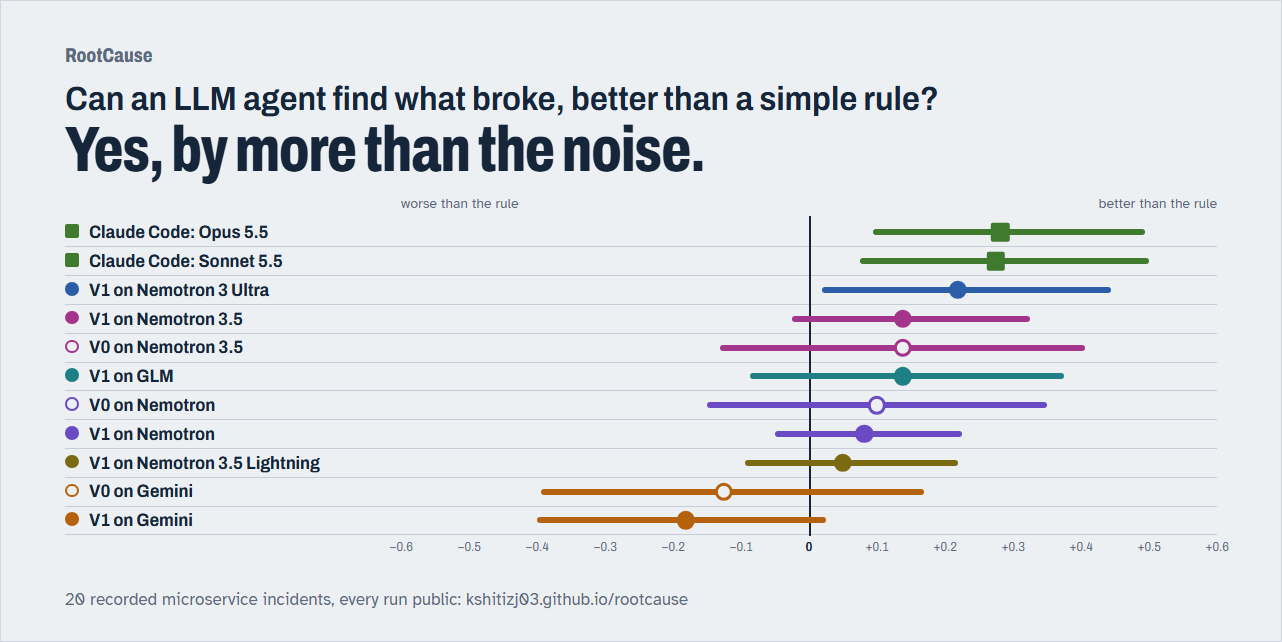
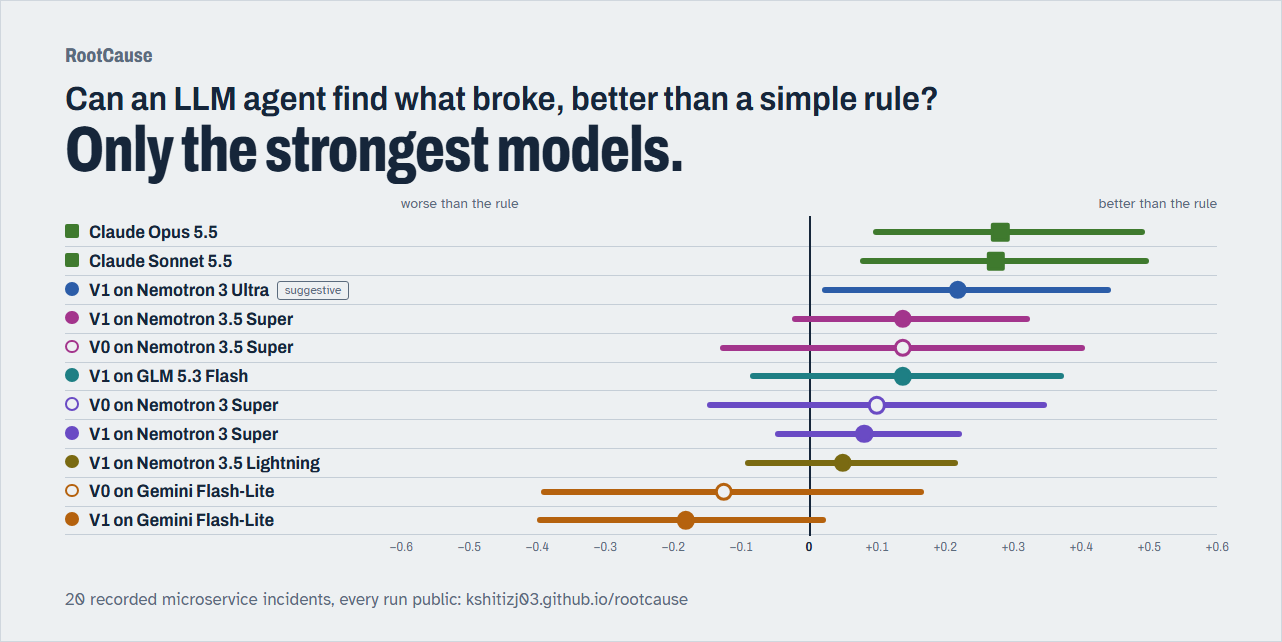
Headline and claims match the stats: only the strongest models clearly beat the rule
- An agent is clearly better than the rule only when its 95% interval is above 0 and the
  permutation test agrees (p <= 0.05); Nemotron 3 Ultra (p = 0.09) is marked suggestive.
- The hero answer names no vendor: "Only the strongest models." Hero rows show wins and losses.
- site.py exports p, wins and losses per paired comparison.
- Full model names on the site (Nemotron 3 Super, Gemini Flash-Lite, GLM 5.3 Flash, Claude Opus 5.5),
  and the scoreboard lists the rule first, then the most accurate agents.
- README: short summary up front, benchmark-and-toolset framing, Claude described as underconfident
  (GLM and Ultra are the best calibrated), Gemini ablation status fixed, a limit on how few
  incidents decide each comparison.
- Share card and README result images regenerated; stale "Not clearly" alt text and fallback removed.

diff --git a/site/assets/lib.js b/site/assets/lib.js
@@ -12,25 +12,26 @@ export const CATEGORIES = {
 
 export const SOLVERS = {
   heuristic: ["Heuristic", "the simple rule"],
-  "agent-v0": ["V0 on Gemini", "naive tools, Gemini 3.5 Flash-Lite"],
-  "agent-v1": ["V1 on Gemini", "change-aware tools, Gemini 3.5 Flash-Lite"],
-  "agent-v1-nopriors": ["V1 on Gemini (no priors)", "ablation: two prompt sentences removed"],
-  "agent-v1-vague": ["V1 on Gemini (vague alerts)", "ablation: one generic alert"],
-  "agent-v0-nemotron": ["V0 on Nemotron", "naive tools, Nemotron 3 Super"],
-  "agent-v1-nemotron": ["V1 on Nemotron", "change-aware tools, Nemotron 3 Super"],
-  "agent-v1-nemotron-nopriors": ["V1 on Nemotron (no priors)", "ablation: two prompt sentences removed"],
-  "agent-v1-nemotron-vague": ["V1 on Nemotron (vague alerts)", "ablation: one generic alert"],
-  "agent-v1-nemotron-steps30": ["V1 on Nemotron (30 steps)", "ablation: twice the step limit"],
-  "agent-v1@z-ai-glm-5.3-flash": ["V1 on GLM", "change-aware tools, GLM 5.3 Flash"],
-  "agent-v0@nvidia-nemotron-3.5-super-vl-120b-a12b": ["V0 on Nemotron 3.5", "naive tools, Nemotron 3.5 Super"],
-  "agent-v1@nvidia-nemotron-3.5-super-vl-120b-a12b": ["V1 on Nemotron 3.5", "change-aware tools, Nemotron 3.5 Super"],
+  "agent-v0": ["V0 on Gemini Flash-Lite", "naive tools, Gemini 3.5 Flash-Lite"],
+  "agent-v1": ["V1 on Gemini Flash-Lite", "change-aware tools, Gemini 3.5 Flash-Lite"],
+  "agent-v1-nopriors": ["V1 on Gemini Flash-Lite (no priors)", "ablation: two prompt sentences removed"],
+  "agent-v1-vague": ["V1 on Gemini Flash-Lite (vague alerts)", "ablation: one generic alert"],
+  "agent-v0-nemotron": ["V0 on Nemotron 3 Super", "naive tools, Nemotron 3 Super"],
+  "agent-v1-nemotron": ["V1 on Nemotron 3 Super", "change-aware tools, Nemotron 3 Super"],
+  "agent-v1-nemotron-nopriors": ["V1 on Nemotron 3 Super (no priors)", "ablation: two prompt sentences removed"],
+  "agent-v1-nemotron-vague": ["V1 on Nemotron 3 Super (vague alerts)", "ablation: one generic alert"],
+  "agent-v1-nemotron-steps30": ["V1 on Nemotron 3 Super (30 steps)", "ablation: twice the step limit"],
+  "agent-v1@z-ai-glm-5.3-flash": ["V1 on GLM 5.3 Flash", "change-aware tools, GLM 5.3 Flash"],
+  "agent-v0@nvidia-nemotron-3.5-super-vl-120b-a12b": ["V0 on Nemotron 3.5 Super", "naive tools, Nemotron 3.5 Super"],
+  "agent-v1@nvidia-nemotron-3.5-super-vl-120b-a12b": ["V1 on Nemotron 3.5 Super", "change-aware tools, Nemotron 3.5 Super"],
   "agent-v1@nvidia-nemotron-3-ultra-550b-a55b": ["V1 on Nemotron 3 Ultra", "change-aware tools, Nemotron 3 Ultra"],
   "agent-v1@nvidia-nemotron-3.5-lightning-30b-a3b": ["V1 on Nemotron 3.5 Lightning", "change-aware tools, Nemotron 3.5 Lightning"],
-  "claude-code-sonnet-5.5": ["Claude Code: Sonnet 5.5", "v1 prompt and tools in Claude Code's loop"],
-  "claude-code-opus-5.5": ["Claude Code: Opus 5.5", "v1 prompt and tools in Claude Code's loop"],
+  "claude-code-sonnet-5.5": ["Claude Sonnet 5.5", "v1 prompt and tools, in Claude Code's loop"],
+  "claude-code-opus-5.5": ["Claude Opus 5.5", "v1 prompt and tools, in Claude Code's loop"],
 };
 
 const GEMINI = "Gemini 3.5 Flash-Lite";
+const GEMINI_NAME = " on Gemini Flash-Lite";   // in the names; a base@model record swaps the model in
 
 /** [name, subtitle]: a built-in solver's label; a built-in one run on another model (eval --model, records named
  * base@model, where the base is always a Gemini solver) with that model in place of Gemini; anything else (your own
@@ -40,7 +41,7 @@ function label(s) {
   const [base, model] = s.split("@");
   if (model && SOLVERS[base]) {
     const [name, sub] = SOLVERS[base];
-    return [name.includes(" on Gemini") ? name.replace(" on Gemini", ` on ${model}`) : `${name} on ${model}`,
+    return [name.includes(GEMINI_NAME) ? name.replace(GEMINI_NAME, ` on ${model}`) : `${name} on ${model}`,
       sub.replace(GEMINI, "another model")];
   }
   return [s, "custom"];
@@ -98,7 +99,7 @@ export function answerText(data, overall) {
   if (!shown.length) return null;
   const n = overall[shown[0]].expected ?? overall[shown[0]].scenarios;
   const planned = data.planned_runs || {};   // absent in an older index.json: then only missing incidents count as partial
-  const lowerFirst = (s) => s[0].toLowerCase() + s.slice(1);   // "V1 on Nemotron" -> "v1 on Nemotron"
+  const lowerFirst = (s) => s.replace(/^(V\d|Heuristic)/, (m) => m.toLowerCase());   // "V1 on …" -> "v1 on …"; Claude keeps its capital
   const counts = (s) => data.incidents.map((i) => (i.results[s] || []).length);   // controls included
   const short = (s) => planned[s] && Math.min(...counts(s)) < planned[s];
   const isPartial = (s) => short(s) || overall[s].scenarios < n;
@@ -149,23 +150,36 @@ export function isPartial(data, s, overall) {
   return Boolean((planned && Math.min(...counts) < planned) || !overall[s] || overall[s].scenarios < n);
 }
 
-/** The complete, non-ablation batches: the heuristic and each agent on each model. */
+/** The complete, non-ablation batches: the heuristic first, then each agent on each model, most accurate first, so the
+ * scoreboard's first columns are the ones the headline is about. */
 export const mainSolvers = (data, overall) =>
-  data.solvers.filter((s) => overall[s] && !isAblation(s) && !isPartial(data, s, overall));
+  data.solvers.filter((s) => overall[s] && !isAblation(s) && !isPartial(data, s, overall))
+    .sort((x, y) => (y === "heuristic") - (x === "heuristic") || overall[y].accuracy_mean - overall[x].accuracy_mean);
 
 /** Each complete agent against the heuristic on the fault incidents, best first: {s, mean, ci, n}. Pairs without an
  * interval are left out. */
 export function vsRuleRows(data, complete) {
   return (data.paired || [])
     .filter((p) => p.b === "heuristic" && p.ci && complete.includes(p.a))
-    .map((p) => ({ s: p.a, mean: p.mean_diff, ci: p.ci, n: p.n }))
+    .map((p) => ({ s: p.a, mean: p.mean_diff, ci: p.ci, n: p.n, p: p.p, wins: p.wins, losses: p.losses }))
     .sort((x, y) => y.mean - x.mean);
+}
+
+/** A comparison is clearly better only when its 95% interval lies above 0 and the permutation test agrees (p <= 0.05);
+ * an interval above 0 with a larger p is suggestive. The bootstrap is somewhat too narrow at 16 incidents, so the
+ * interval alone overstates. A row without p (an older index.json) goes by the interval. */
+export const strength = (r) => (r.ci[0] <= 0 ? "none" : r.p == null || r.p <= 0.05 ? "clear" : "suggestive");
+
+/** The hero's one-line answer from the vs-rule rows, naming no vendor: none, some or all of the agents clearly better. */
+export function heroAnswer(rows) {
+  const clear = rows.filter((r) => strength(r) === "clear").length;
+  return !clear ? "Not clearly." : clear < rows.length ? "Only the strongest models." : "Yes, by more than the noise.";
 }
 
 /** What one paired comparison changes, in plain words: [group, change, held fixed]. */
 export function changeOf(a, b) {
   const model = (s) => ({ nemotron: "Nemotron 3 Super", nemotron35: "Nemotron 3.5 Super", ultra: "Nemotron 3 Ultra", lightning: "Nemotron 3.5 Lightning",
-    glm: "GLM" }[modelOf(s)] ?? "Gemini");
+    glm: "GLM 5.3 Flash" }[modelOf(s)] ?? "Gemini Flash-Lite");
   const tools = (s) => (toolsOf(s) === "v0" ? "naive tools" : "change-aware tools");
   if (toolsOf(a) === toolsOf(b) && modelOf(a) !== modelOf(b) && !isAblation(a) && !isAblation(b)) {
     return ["Model", `${model(a)} instead of ${model(b)}`, `same agent: v${toolsOf(a).slice(1)}, ${tools(a)}`];

diff --git a/site/index.html b/site/index.html
@@ -13,7 +13,7 @@
 <meta property="og:image" content="https://kshitizj03.github.io/rootcause/assets/card.png">
 <meta property="og:image:width" content="1280">
 <meta property="og:image:height" content="640">
-<meta property="og:image:alt" content="Can an LLM agent find what broke, better than a simple rule? Yes: Claude Opus 5.5, Claude Sonnet 5.5 and the free Nemotron 3 Ultra beat it on 16 fault incidents (95% intervals right of zero); the other free models' intervals all cross zero.">
+<meta property="og:image:alt" content="Can an LLM agent find what broke, better than a simple rule? Only the strongest models: Claude Opus 5.5 and Sonnet 5.5 beat it on 16 fault incidents (95% intervals right of zero, permutation p of 0.05 or less), the largest free model, Nemotron 3 Ultra, is suggestive (p = 0.09), and the smaller models' intervals cross zero.">
 <meta name="twitter:card" content="summary_large_image">
 <link rel="preconnect" href="https://fonts.googleapis.com">
 <link rel="preconnect" href="https://fonts.gstatic.com" crossorigin>
@@ -39,7 +39,7 @@
   <section class="hero" id="results" aria-labelledby="headline">
     <h1 id="headline">Can an LLM agent find what broke, better than a simple rule?</h1>
     <p class="answer-line" id="answer" aria-live="polite">Loading the result.</p>
-    <p class="lede">RootCause is an LLM agent that reads an incident’s metrics, traces and logs and names the service that broke. It is scored against a 28-line rule that names the service whose fault signal rose most, on incidents recorded from a 28-service demo shop, with every run shown, failures included.</p>
+    <p class="lede">RootCause is a benchmark and a toolset: an LLM agent reads an incident’s metrics, traces and logs through its tools and names the service that broke, and is scored against a 28-line rule that names the service whose fault signal rose most, on incidents recorded from a 28-service demo shop. The same tools are served over MCP, so any agent harness can run them. Every run is shown, failures included.</p>
     <div id="hero-plot"><noscript><p class="status">This page needs JavaScript to draw the results.</p></noscript></div>
   </section>
 
@@ -51,7 +51,7 @@
 
   <section class="board" id="every-run" aria-labelledby="board-title">
     <h2 id="board-title">Every run</h2>
-    <p class="section-lede">One mark per run, for every incident. Open an incident to replay what the agent looked at and why it answered as it did.</p>
+    <p class="section-lede">One mark per run, for every incident. Open a run to replay every tool call the agent made, what each returned, and what it answered.</p>
     <div id="scoreboard" data-root>
       <p class="status">Loading results.</p>
     </div>
@@ -87,6 +87,7 @@
           <li><strong>Small.</strong> Twenty incidents from one demo app, recorded on one laptop. Category results rest on two to six incidents each.</li>
           <li><strong>Generous inputs.</strong> Every solver is told when the fault began, and several alerts hint at the area of the cause. With one generic alert instead, false alarms double.</li>
           <li><strong>Two harnesses.</strong> Gemini 3.5 Flash-Lite, GLM 5.3 Flash and four Nemotron models run on free tiers in this repo&rsquo;s loop at temperature 0, so their spread across runs is API nondeterminism, not sampling. Claude Sonnet 5.5 and Opus 5.5 run in Claude Code&rsquo;s own loop at default sampling, so Claude against the free models mixes model and loop; Claude against the rule does not.</li>
+          <li><strong>Few incidents decide it.</strong> The leading agents (Claude, Nemotron 3 Ultra, GLM) score the same as the rule on 8 to 10 of the 16 fault incidents, so each of those comparisons rests on the other 6 to 8. A right answer can also cite the symptom’s evidence rather than the cause’s.</li>
           <li><strong>One author.</strong> The same person built the incidents, the rule, the agent and the scoring. The <a href="https://github.com/kshitizj03/rootcause/blob/main/docs/faq.md">methodology FAQ</a> lists every known threat to validity.</li>
         </ul>
       </div>

diff --git a/site/assets/app.js b/site/assets/app.js
@@ -4,7 +4,7 @@
 import {
   CATEGORIES, SOLVERS, solverName, solverSub, categoryName, pct, signed, plural, isObj, num, minutes, counted, isTrueCause,
   mark, stripSlots, strip, answerText, alertFor, sparkGeometry, logsLine, trimNotes, argText, evidenceText,
-  modelOf, toolsOf, isPartial, mainSolvers, vsRuleRows, findingRows, forestDomain, at,
+  modelOf, toolsOf, isPartial, mainSolvers, vsRuleRows, findingRows, forestDomain, at, strength, heroAnswer,
 } from "./lib.js";
 
 const REPO = "https://github.com/kshitizj03/rootcause";
@@ -103,14 +103,20 @@ function vsRulePlot(data, rows, overall) {
       h("div", { class: "f-ends" }, h("span", {}, "worse than the rule"), h("span", {}, "better than the rule"))),
     h("ul", { class: "f-rows", role: "list" }, rows.map((r) =>
       h("li", { class: "f-row" },
-        h("span", { class: "f-label" }, swatch(r.s), h("span", { class: "f-name" }, solverName(r.s)),
-          h("span", { class: "f-sub" }, `${pct(overall[r.s].accuracy_mean)} of ${r.n} fault incidents`)),
-        h("div", { class: "f-track", role: "img", "aria-label": `${solverName(r.s)} minus the rule: ${diffText(r.mean, r.ci)}` },
+        h("span", { class: "f-label" }, swatch(r.s), h("span", { class: "f-name" }, solverName(r.s),
+            strength(r) === "suggestive" ? h("span", { class: "tag", title: `permutation p = ${r.p.toFixed(2)}` }, "suggestive") : null),
+          h("span", { class: "f-sub" }, `${pct(overall[r.s].accuracy_mean)} of ${r.n} fault incidents`,
+            r.wins != null ? `; beat the rule on ${r.wins}, lost on ${r.losses}` : "")),
+        h("div", { class: "f-track", role: "img", "aria-label": `${solverName(r.s)} minus the rule: ${diffText(r.mean, r.ci)}` +
+          (r.p != null ? `, permutation p = ${r.p.toFixed(2)}${strength(r) === "suggestive" ? ", so only suggestive" : ""}` : "") },
           h("span", { class: "f-zero" }), interval(r.s, r.mean, r.ci, domain))))),
     forestAxis(domain),
     h("figcaption", {}, `Each agent’s accuracy minus the simple rule’s (${rule ? pct(rule.accuracy_mean) : "n/a"}) on the same `,
       `${rows[0]?.n ?? 16} fault incidents, with a 95% bootstrap interval over incidents. `,
-      rows.every((r) => r.ci[0] <= 0) ? "Every interval crosses zero: none is clearly better." : "An interval wholly right of zero is clearly better."));
+      rows.every((r) => r.ci[0] <= 0) ? "Every interval crosses zero: none is clearly better."
+        : "An agent is clearly better when its interval lies wholly right of zero and an exact permutation test agrees (p ≤ 0.05); " +
+          "an interval right of zero with a larger p is only suggestive, since the bootstrap runs narrow at 16 incidents. " +
+          "On the other incidents the agent and the rule score the same."));
 }
 
 /** What moved accuracy: the paired comparisons that change one thing, fault-only and with the controls counted. */
@@ -210,8 +216,7 @@ async function renderIndex() {
 
   const rows = vsRuleRows(data, main);
   if (rows.length) {
-    const yes = rows.some((r) => r.ci[0] > 0);
-    document.getElementById("answer").textContent = yes ? "Yes, by more than the noise." : "Not clearly.";
+    document.getElementById("answer").textContent = heroAnswer(rows);
     document.getElementById("hero-plot").replaceChildren(vsRulePlot(data, rows, overall));
   }
   const findings = findingRows(data, complete);
@@ -615,7 +620,7 @@ async function renderCard() {
   const overall = Object.fromEntries(data.solvers.map((s) => [s, summary[s]["all incidents"]]));
   const rows = vsRuleRows(data, mainSolvers(data, overall));
   if (!rows.length) return;
-  document.getElementById("answer").textContent = rows.some((r) => r.ci[0] > 0) ? "Yes, by more than the noise." : "Not clearly.";
+  document.getElementById("answer").textContent = heroAnswer(rows);
   document.getElementById("hero-plot").replaceChildren(vsRulePlot(data, rows, overall));
 }
 

diff --git a/site/incident.html b/site/incident.html
@@ -13,7 +13,7 @@
 <meta property="og:image" content="https://kshitizj03.github.io/rootcause/assets/card.png">
 <meta property="og:image:width" content="1280">
 <meta property="og:image:height" content="640">
-<meta property="og:image:alt" content="Can an LLM agent find what broke, better than a simple rule? Not clearly: every agent's 95% interval against the rule crosses zero.">
+<meta property="og:image:alt" content="Can an LLM agent find what broke, better than a simple rule? Only the strongest models: Claude Opus 5.5 and Sonnet 5.5 beat it on 16 fault incidents (95% intervals right of zero, permutation p of 0.05 or less), the largest free model, Nemotron 3 Ultra, is suggestive (p = 0.09), and the smaller models' intervals cross zero.">
 <meta name="twitter:card" content="summary_large_image">
 <link rel="preconnect" href="https://fonts.googleapis.com">
 <link rel="preconnect" href="https://fonts.gstatic.com" crossorigin>

diff --git a/site/assets/style.css b/site/assets/style.css
@@ -585,3 +585,9 @@ body.card .hero-plot .f-label > .dot { top: 0.2rem; }
 body.card .hero-plot .f-zero { top: -0.25rem; bottom: -0.25rem; }
 body.card .hero-plot figcaption { display: none; }
 .card-foot { position: absolute; left: 64px; bottom: 28px; margin: 0; color: var(--muted); font-size: 1.0625rem; }
+
+/* a hero row whose interval clears zero but whose permutation p does not: said in words, not left to the bar */
+.tag {
+  display: inline-block; margin-left: 0.5rem; padding: 0 0.4rem; border: 1px solid var(--muted); border-radius: 3px;
+  font: 400 0.75rem/1.4 var(--body); color: var(--muted); white-space: nowrap; vertical-align: 0.15em;
+}

diff --git a/site/card.html b/site/card.html
@@ -16,7 +16,7 @@
 <main>
   <p class="card-mark">RootCause</p>
   <h1>Can an LLM agent find what broke, better than a simple rule?</h1>
-  <p class="answer-line" id="answer">Not clearly.</p>
+  <p class="answer-line" id="answer"></p>
   <div id="hero-plot"></div>
   <p class="card-foot">20 recorded microservice incidents, every run public: kshitizj03.github.io/rootcause</p>
 </main>

diff --git a/rootcause/site.py b/rootcause/site.py
@@ -90,7 +90,8 @@ def _alert_shown(rs):
 
 def _pair(a, b, p, every):
     keep = lambda q: {"n": q["n"], "mean_diff": q["mean_diff"], "ci": q["ci"]}
-    return {"a": a, "b": b, **keep(p), "with_controls": keep(every)}
+    # p, wins and losses on the fault incidents: the site calls an agent clearly better only when p agrees with the CI
+    return {"a": a, "b": b, **keep(p), "p": p["p"], "wins": p["wins"], "losses": p["losses"], "with_controls": keep(every)}
 
 
 def _truth(s, rows):

diff --git a/README.md b/README.md
@@ -1,19 +1,21 @@
 # RootCause
 
-RootCause is an LLM agent that investigates microservice incidents over OpenTelemetry metrics, traces and logs, and a benchmark that asks whether it beats a simple rule. Every answer is scored against ground truth on 20 recorded [OpenTelemetry Demo](https://github.com/open-telemetry/opentelemetry-demo) incidents (16 faults, 4 no-fault controls), against a 28-line heuristic that names the service whose fault signal rose most.
+RootCause is a benchmark and a toolset for LLM agents that investigate microservice incidents over OpenTelemetry metrics, traces and logs: does an agent with the right tools beat a simple rule? The tools run in this repo's own agent loop and over MCP, so any agent harness can be scored. Every answer is scored against ground truth on 20 recorded [OpenTelemetry Demo](https://github.com/open-telemetry/opentelemetry-demo) incidents (16 faults, 4 no-fault controls), against a 28-line heuristic that names the service whose fault signal rose most.
 
 <a href="https://kshitizj03.github.io/rootcause/"><picture>
   <source media="(prefers-color-scheme: dark)" srcset="docs/images/result-dark.png">
-  <img alt="Can an LLM agent find what broke, better than a simple rule? Yes, by more than the noise: each agent's accuracy minus the rule's on 16 fault incidents, with a 95% interval; Claude Opus 5.5, Claude Sonnet 5.5 and the free Nemotron 3 Ultra are clear of zero, every other free model's interval crosses it." src="docs/images/result-light.png">
+  <img alt="Can an LLM agent find what broke, better than a simple rule? Only the strongest models: each agent's accuracy minus the rule's on 16 fault incidents, with a 95% interval; Claude Opus 5.5 and Sonnet 5.5 are clear of zero, the largest free model, Nemotron 3 Ultra, only suggestively (p = 0.09), and every smaller model's interval crosses it." src="docs/images/result-light.png">
 </picture></a>
 
-**The result, honestly:**
-- **Claude beats the rule.** Claude Opus 5.5 and Sonnet 5.5, run in Claude Code with agent v1's prompt and tools, score 0.88 and 0.87 on the fault incidents against the rule's 0.59: +0.28 (95% interval +0.09 to +0.49) and +0.27 (+0.08 to +0.50). With the 4 no-fault controls counted, Opus still clears zero (+0.25, +0.06 to +0.45) and Sonnet does not (+0.18, -0.03 to +0.39), because it raises more false alarms. Opus and Sonnet are indistinguishable on the fault incidents (+0.01).
-- **So does the largest free model, on the fault incidents.** Agent v1 on Nemotron 3 Ultra (550B, NVIDIA's free endpoint, this repo's loop) scores 0.81: +0.22 over the rule (+0.02 to +0.44, permutation p = 0.09, so suggestive). With the controls counted its interval includes 0 (+0.15, -0.02 to +0.35). It is not measurably below Opus (+0.06, -0.09 to +0.21).
+**In short:** only the strongest models clearly beat the rule. With this repo's tools, the best (Claude Opus 5.5) beat it on 6 of 16 fault incidents and lost on none (0.88 vs 0.59); the largest free model (Nemotron 3 Ultra, 0.81) is suggestive but not clear; the smaller models are not clearly better. Within one model family, accuracy rose with size (Nemotron 30B 0.64, 120B 0.73, 550B 0.81), so the result is about model strength, not a vendor. Every run can be [replayed](https://kshitizj03.github.io/rootcause/), failures included.
+
+**The result, in detail:**
+- **Claude beats the rule.** Claude Opus 5.5 and Sonnet 5.5, run in Claude Code with agent v1's prompt and tools, score 0.88 and 0.87 on the fault incidents against the rule's 0.59: +0.28 (95% interval +0.09 to +0.49, permutation p = 0.03; 6 wins, 10 ties, 0 losses) and +0.27 (+0.08 to +0.50, p = 0.05; 6 wins, 1 loss). With about thirty comparisons and no correction, these are the strongest results here, not proof. With the 4 no-fault controls counted, Opus still clears zero (+0.25, +0.06 to +0.45) and Sonnet does not (+0.18, -0.03 to +0.39), because it raises more false alarms. Opus and Sonnet are indistinguishable on the fault incidents (+0.01).
+- **The largest free model is suggestive, not clear.** Agent v1 on Nemotron 3 Ultra (550B, NVIDIA's free endpoint, this repo's loop) scores 0.81: +0.22 over the rule. Its bootstrap interval only just clears zero (+0.02 to +0.44) and the permutation test does not agree (p = 0.09). With the controls counted its interval includes 0 (+0.15, -0.02 to +0.35). It is not measurably below Opus (+0.06, -0.09 to +0.21).
 - **The other free models are not clearly better than the heuristic.** Every paired 95% interval for agents v0 and v1 on Gemini 3.5 Flash-Lite, Nemotron 3 Super, Nemotron 3.5 Super, Nemotron 3.5 Lightning and GLM 5.3 Flash includes 0; the best are +0.14 (Nemotron 3.5 Super's interval only just includes 0: -0.02 to +0.33).
 - **The Claude runs are a different harness.** Claude Code's own tool loop at the model's default sampling, not this repo's loop at temperature 0, so "Claude vs the free models" mixes the model with the loop. Against the rule, which uses neither, the comparison is clean.
-- **Claude is the first agent that is not overconfident.** Opus states 0.73 confidence and is right 0.87 of the time; Sonnet 0.60 and 0.81. Every other agent states more confidence than it earns.
-- **The model matters more than the tools on fault incidents.** With the same prompt and tools, agent v1 on GLM 5.3 Flash scores +0.32 higher than on Gemini 3.5 Flash-Lite (95% interval +0.09 to +0.56), and on Nemotron 3 Super +0.26 (+0.10 to +0.44). A newer Nemotron (3.5 Super) is not measurably better than the old one (+0.06, interval -0.01 to +0.12); a larger one (3 Ultra) is (+0.14, +0.03 to +0.27), and keeps that gap with the controls counted.
+- **Claude is underconfident; every other agent is overconfident.** Opus states 0.73 confidence and is right 0.87 of the time; Sonnet 0.60 and 0.81. Opus has the best Brier score (0.11), but GLM 5.3 Flash and Nemotron 3 Ultra are the best calibrated (ECE 0.08 and 0.11, against Claude's 0.20 and 0.22).
+- **The model matters more than the tools on fault incidents.** With the same prompt and tools, agent v1 on GLM 5.3 Flash scores +0.32 higher than on Gemini 3.5 Flash-Lite (95% interval +0.09 to +0.56), and on Nemotron 3 Super +0.26 (+0.10 to +0.44). A newer Nemotron (3.5 Super) is not measurably better than the old one (+0.06, interval -0.01 to +0.12); a larger one (3 Ultra) suggestively is (+0.14, +0.03 to +0.27, p = 0.08), and keeps that gap with the controls counted.
 - **Counting the 4 no-fault controls shrinks the model gaps:** Nemotron vs Gemini falls to +0.11 and its interval includes 0 (-0.09 to +0.31), because Nemotron raises far more false alarms.
 - **The change-aware tools change nothing measurable** on any of the three models that ran both toolsets.
 
@@ -53,7 +55,7 @@ rootcause eval heuristic
 ## Status
 
 > - **Complete:** the heuristic; agents v0 and v1 on Gemini 3.5 Flash-Lite, Nemotron 3 Super and Nemotron 3.5 Super, and agent v1 on GLM 5.3 Flash, Nemotron 3 Ultra and Nemotron 3.5 Lightning (5 runs on each of the 20 incidents); on Nemotron 3 Super, the no-priors, vague-alert and 30-step ablations; on Gemini, the vague-alert and no-priors ablations; Claude Sonnet 5.5 and Opus 5.5 in Claude Code (5 runs on each incident).
-> - **Running:** agent v1 on Gemini 3.1 Flash-Lite (quota-bound on the free tier), not in the data release yet. Other models that were tried and not run (timeouts) are listed under [Models tried](docs/results/agents.md#models-tried).
+> - **Partial, not in the data release:** agent v1 on Gemini 3.1 Flash-Lite (quota-bound on the free tier). Other models that were tried and not run (timeouts) are listed under [Models tried](docs/results/agents.md#models-tried).
 > - Two small decision models, Laya and Hunch, both scored below the heuristic zero-shot, so no small-model-then-agent cascade was built ([`laya.md`](docs/results/laya.md), [`hunch.md`](docs/results/hunch.md)).
 
 ## How it works
@@ -93,7 +95,7 @@ The automated leak scan checks every snapshot's metrics, spans and logs, which c
 - **Agent v0:** a model tool loop with naive tools (raw metric series, trace and log search).
 - **Agent v1:** the same loop with change-aware tools (`top_changes`, `service_health`, `service_map`) and structured, checkable evidence.
 - **Claude Code** (`rootcause/claude_code.py`): Claude Sonnet 5.5 or Opus 5.5 in headless Claude Code (`claude -p`), with agent v1's prompt, only the v1 tools (over MCP), the same 15-turn limit, step-limit message and repair turn. It has no built-in tools (no file reads, shell or web), no settings or CLAUDE.md, and its MCP server reads a copy of the snapshot without the ground truth; every run checks its tool list.
-- **Ablations of agent v1,** each changing one thing: *no priors* drops the two generic sentences from the prompt ("the service the alert mentions is often NOT the cause", "it is possible that nothing is actually wrong"), and *vague alert* gives every incident the same alert, "Users report that something is wrong with the shop." On Nemotron both are complete, plus a third ablation with a 30-step limit instead of 15; on Gemini both are in progress.
+- **Ablations of agent v1,** each changing one thing: *no priors* drops the two generic sentences from the prompt ("the service the alert mentions is often NOT the cause", "it is possible that nothing is actually wrong"), and *vague alert* gives every incident the same alert, "Users report that something is wrong with the shop." Both ran on Nemotron (5 runs per incident) and on Gemini (3 runs per incident), plus, on Nemotron, a third ablation with a 30-step limit instead of 15.
 
 Agents v0 and v1 run at temperature 0 on six free-tier models: Gemini 3.5 Flash-Lite, and Nemotron 3 Super, Nemotron 3.5 Super, Nemotron 3 Ultra, Nemotron 3.5 Lightning and GLM 5.3 Flash on NVIDIA's free trial endpoint. The Claude Code solver runs Claude Sonnet 5.5 and Opus 5.5 on a Claude subscription, at the model's default sampling (Claude Code cannot set the temperature). One model is pinned per batch, so results never mix models.
 
@@ -219,6 +221,7 @@ Both are scored by the same rules as the built-in solvers, and `summary`, `repor
 ## Honest limits
 
 - **Twenty incidents from one demo app on one laptop.** This is a small benchmark, not a general claim.
+- **A few incidents decide each comparison.** The leading agents (Claude, Nemotron 3 Ultra, GLM 5.3 Flash) score the same as the rule on 8 to 10 of the 16 fault incidents, so each of those comparisons rests on the other 6 to 8. A run is scored on the service it names, so a right answer can still cite the symptom's evidence rather than the cause's (the replay below is one).
 - **Every solver gets the exact fault onset** (t=0 is the injection time), and several alerts hint at the culprit's functional area. One generic alert for every incident lowers fault accuracy by 0.12 on Nemotron and 0.13 on Gemini (each borderline on its own) and raises false alarms on both, so the alerts' hints help.
 - **Six free-tier models and two Claude models:** Gemini 3.5 Flash-Lite, Nemotron 3 Super, Nemotron 3.5 Super, Nemotron 3 Ultra, Nemotron 3.5 Lightning and GLM 5.3 Flash at temperature 0, in this repo's loop; Claude Sonnet 5.5 and Opus 5.5 at default sampling, in Claude Code's loop. For the free models the spread across runs measures API nondeterminism, not sampling. The Claude gap over the free models mixes model and harness; the Claude gap over the rule does not.
 

diff --git a/docs/results/agents.md b/docs/results/agents.md
@@ -5,7 +5,7 @@
 ## In short
 
 - **Claude beats the simple rule (added 2026-11-10).** Claude Opus 5.5 and Sonnet 5.5 in Claude Code, with agent v1's prompt and tools, score 0.88 and 0.87 on fault incidents against the rule's 0.59 (+0.28, interval +0.09 to +0.49; +0.27, +0.08 to +0.50). Counting the controls, only Opus clears zero (+0.25, +0.06 to +0.45). See [Claude in Claude Code](#claude-in-claude-code).
-- **The largest free model beats the rule on fault incidents, but not once false alarms count (added 2026-11-15).** Agent v1 on Nemotron 3 Ultra (550B, NVIDIA's free endpoint, this repo's loop at temperature 0) scores 0.81 on fault incidents: +0.22 over the heuristic (interval +0.02 to +0.44, permutation p = 0.09, so suggestive). With the controls counted, +0.15 (-0.02 to +0.35). It is not measurably below Opus (Opus +0.06, -0.09 to +0.21). See [Scale](#scale-a-larger-model-helps-where-a-newer-one-did-not).
+- **The largest free model is suggestively better than the rule on fault incidents, and not once false alarms count (added 2026-11-15).** Agent v1 on Nemotron 3 Ultra (550B, NVIDIA's free endpoint, this repo's loop at temperature 0) scores 0.81 on fault incidents: +0.22 over the heuristic (interval +0.02 to +0.44, permutation p = 0.09, so suggestive). With the controls counted, +0.15 (-0.02 to +0.35). It is not measurably below Opus (Opus +0.06, -0.09 to +0.21). See [Scale](#scale-a-larger-model-helps-where-a-newer-one-did-not).
 - **No other free-tier agent is clearly better than the simple rule, on five more models.** The best, v1 on Nemotron 3.5 Super and on GLM 5.3 Flash, score 0.14 above the heuristic on fault incidents, but every interval includes 0 (Nemotron 3.5's only just: -0.02 to +0.33), so this benchmark cannot tell them apart. Most of them also raise more false alarms on the no-fault controls.
 - **The model matters most on fault incidents.** With the same agent, tools and prompt, GLM 5.3 Flash scores 0.32 above Gemini 3.5 Flash-Lite (95% interval +0.09 to +0.56) and Nemotron 3 Super 0.26 above it (+0.10 to +0.44). Agent v0 shows the same Nemotron gap (+0.23, interval +0.04 to +0.41).
 - **A newer version of the same model does not measurably help; a larger one does.** Nemotron 3.5 Super against Nemotron 3 Super: +0.06 with agent v1 (interval -0.01 to +0.12) and +0.04 with v0 (-0.05 to +0.12). Nemotron 3 Ultra against Nemotron 3 Super, the version held: +0.14 (+0.03 to +0.27), and +0.14 (+0.04 to +0.25) with the controls counted. Going smaller costs false alarms: Nemotron 3.5 Super against 3.5 Lightning is +0.09 on fault incidents (-0.01 to +0.21) and +0.11 (+0.02 to +0.22) with the controls.
@@ -202,7 +202,7 @@ Added 2026-11-10. `rootcause/claude_code.py` runs headless Claude Code (`claude 
 
 - **Both beat the rule on fault incidents; with the controls counted, only Opus does.** Sonnet raised an incident on all five runs of control-3 (product-catalog latency) and on three of control-2; Opus answered control-2, the control with a real unprompted latency spike, "no incident" on all five runs.
 - **No run hit the step limit,** and no answer failed to parse.
-- **Neither is overconfident,** unlike every other agent: stated confidence is below accuracy, and a confidence threshold helps (Opus is right on every run answered at confidence 0.75 or more, 53% of runs).
+- **Neither is overconfident,** unlike every other agent, but both are underconfident (ECE 0.20 for Opus and 0.22 for Sonnet, against 0.08 for GLM 5.3 Flash and 0.11 for Nemotron 3 Ultra): stated confidence is below accuracy, and a confidence threshold helps (Opus is right on every run answered at confidence 0.75 or more, 53% of runs).
 - **Where they still fail:** kafka-queue-problems (0 of 5 for both: they name accounting, a Kafka consumer; the accepted answers are kafka, checkout and fraud-detection) and, for Opus, product-catalog-lock-contention (1 of 5, against Sonnet's 5 of 5).
 - **Claude vs the free models mixes model and harness.** Opus is above GLM v1 on fault incidents (+0.14, interval +0.04 to +0.28), but part of that may be Claude Code's loop rather than the model.
 
